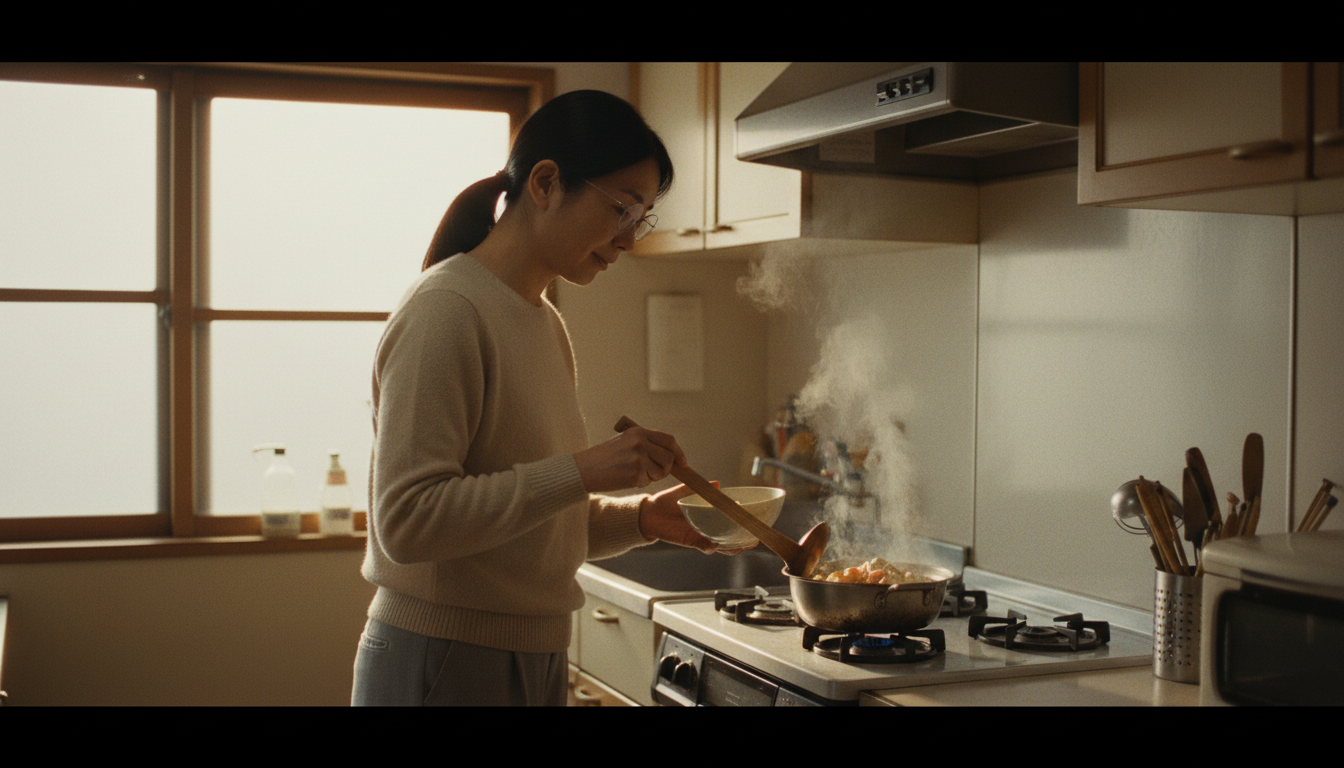
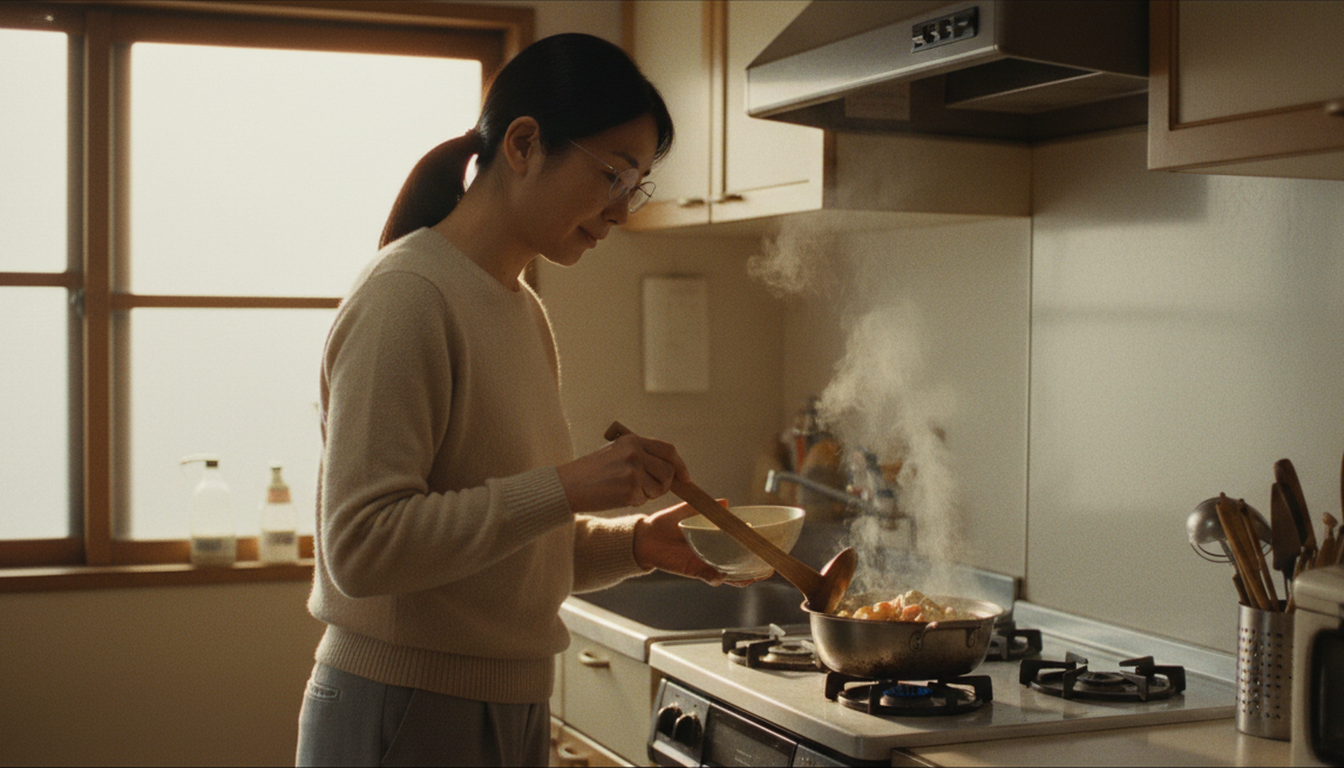
aihaha-ja PHASE 4 시범 Kill Gate: 9컷 재생성 스펙 r1, 안경 이동·구도 앞배치·한 손 규칙 생성기 반영, 제21장 15
Claude-Session: https://claude.ai/code/session_012dfS4ETyT6kRCQca3NPWtx

diff --git a/scripts/build_aihaha_keyframes.py b/scripts/build_aihaha_keyframes.py
@@ -40,7 +40,8 @@ def describe(path, i):
     if b.startswith("sweat-standard"):
         return f"Reference image {i} is the APPROVED SWEAT LOOK of {PEOPLE[k]}: reproduce exactly this face and this subtle natural sweat; ignore its background."
     if k and b.endswith("-back.png"):
-        return f"Reference image {i} is the BACK VIEW of {PEOPLE[k]}: this person appears seen from behind exactly like this (hair, build); never show this person's face."
+        bare = "" if k in GLASSES else " This person's ears and temples are bare — no eyewear arms."
+        return f"Reference image {i} is the BACK VIEW of {PEOPLE[k]}: this person appears seen from behind exactly like this (hair, build); never show this person's face.{bare}"
     if k and any(w in b for w in ("mourning", "coat", "golf", "blouse", "hoodie")):
         return f"Reference image {i} is the WARDROBE reference of {PEOPLE[k]}: copy this exact outfit and the same face; ignore its white background and panel layout."
     if k:
@@ -85,7 +86,40 @@ EMO_OVERRIDE = {
     "S08k": "The framed portrait on the small altar shows a plain soft pale surface inside the frame (the photograph is composited later).",
     "S11j": "Exactly three people slumped on the sofa seen from directly above; nobody else.",
     "S13d": "Yukiko alone, close-up, the morning window light from the left exactly like the approved tear reference.",
+    # r1 (시범 #1046 Kill Gate) — 손 개수·시선·두 사람 손 구분·구도
+    "H0b": ("ONE HAND ONLY: her LEFT hand alone holds the tablet by its lower edge, tilted toward her; her right hand is out of frame, resting in her lap. "
+            "Five separate fingers, the watch on that left wrist."),
+    "H2b": ("ONE HAND ONLY: her LEFT hand alone lowers the tablet, tilted about 30 degrees above the low table with its glowing screen facing DOWN toward the wood, "
+            "so the screen itself is hidden — only its plain black back and the cold light spilling onto the table are seen; her right hand is out of frame."),
+    "H1": ("EYELINE LOCKED: her eyes look DOWN and toward the left edge of the frame at the tablet held below the frame at chest height; the lens sees her face from "
+           "about 40 degrees to her right; her eyelids lowered toward the screen, the pupils never aimed at the lens."),
+    "S01h": ("TWO DIFFERENT PEOPLE'S HANDS: from the LEFT, the mother's thin wrinkled 74-year-old hand in a lavender cardigan sleeve with the small brown-leather watch "
+             "on her wrist; from the RIGHT, Yukiko's smooth 46-year-old hand in a beige knit sleeve, lying palm-down on the blanket underneath; the old hand rests on "
+             "top of the younger hand. Exactly two hands, one from each side."),
+    "S01b": ("ONE HAND ONLY: her RIGHT hand alone, pinching one small white pill between thumb and index finger just above an open compartment of the plain "
+             "white weekly pill case on the low table; her left hand is out of frame. Five separate fingers."),
+    "S01f": "PEOPLE LOCKED: exactly two people — the mother's blurred white-haired head and lavender shoulder at the near left edge, her thin hand pointing at the window; Yukiko beyond by the window.",
 }
+FRAMING_FIRST = {
+    "S01f": "FRAMING LOCKED FIRST: MEDIUM SHOT from the waist up — Yukiko stands close to the window, her face at least one quarter of the frame height; NOT a full-body shot.",
+}
+GLASSES = {"yukiko": "thin silver wire-rim ROUND glasses", "shota": "thick black rectangular glasses"}
+NAME = {"yukiko": "Yukiko", "sawako": "the mother (Sawako)", "tsuyoshi": "the uncle", "yoriko": "the aunt", "shota": "the cousin", "miyashita": "the detective",
+        "ai-haha": "the AI mother"}
+
+
+def eyewear_lock(keys):
+    """안경 이동 방지(시범 #1046: 유키코 정면 셀의 안경이 어깨 너머 어머니로 옮겨 감 2/3컷, 유키코는 안경 소실)."""
+    keys = [k for k in dict.fromkeys(keys) if k in NAME]
+    if len(keys) < 2:
+        return None
+    wear = [f"{NAME[k]} wears {GLASSES[k]}" for k in keys if k in GLASSES]
+    bare = [NAME[k] for k in keys if k not in GLASSES]
+    if not wear or not bare:
+        return None
+    return ("EYEWEAR LOCKED: " + "; ".join(wear) + " — always, including in this frame; " + " and ".join(bare)
+            + " ha" + ("s" if len(bare) == 1 else "ve") + " bare uncovered eyes and bare temples. The glasses belong only to "
+            + " and ".join(NAME[k] for k in keys if k in GLASSES) + ".")
 SEAT = "SEATED/FURNITURE LOCKED: seated people sit on zabuton or chairs pulled in to the table; no furniture passes through any body."
 
 
@@ -96,17 +130,34 @@ def build(sc):
     if len(refs) > MAX_REFS:
         refs = refs[:MAX_REFS]
     assert len(refs) <= MAX_REFS
+    kp = sc["keyframe_prompt"]
+    if sc["id"] == "H0a":
+        # 극 중 AI 영상만 렌즈 정면(제21장 4) — PHASE 3 공통 립싱크 문장(30~40° 시선)과 충돌하므로 제거, 장소 판을 첫 참조로
+        kp = kp.replace("Single speaker at 30 to 40 degrees from the camera axis, eyes toward the other person off-screen, NOT looking at the camera, "
+                        "the face at least one third of the frame height, mouth closed. ", "")
+        refs = [r for r in refs if not who_of(os.path.basename(r))] + [r for r in refs if who_of(os.path.basename(r))]
     parts = ["Create ONE single photorealistic cinematic film still in 16:9 widescreen — one frame only, NOT a grid, no panels, no borders, no captions."]
-    parts += [describe(p, i + 1) for i, p in enumerate(refs)]
     if sc["kind"] == "d" and sc["id"] != "H0a":
         parts.append("FRAMING LOCKED FIRST: chest-up MEDIUM CLOSE-UP, the speaker's face at least ONE THIRD of the frame height; NOT a wide shot, NO full body.")
+    if sc["id"] in FRAMING_FIRST:
+        parts.append(FRAMING_FIRST[sc["id"]])
+    if sc["id"] == "H0a":
+        parts.append("Reference image 1 is the BASE PLATE of the room: keep the same textured beige wall, the same dark-wood window frame and EXACTLY the same "
+                     "finished pale tower with the same tiled-roof houses and green trees below it outside; the woman sits in the brown armchair in front of that window. "
+                     "Nothing else in the room: no tablet, no devices, no frames.")
+        parts += [describe(p, i + 1) for i, p in enumerate(refs) if i > 0]
+    else:
+        parts += [describe(p, i + 1) for i, p in enumerate(refs)]
+    ew = eyewear_lock([who_of(os.path.basename(r)) for r in refs])
+    if ew:
+        parts.append(ew)
     if sc["kind"] in ("face", "d", "pstill") and sc["id"] != "H0a":
         parts.append(GAZE_DEFAULT)
     if "phone" not in (sc["subject"] + " " + (sc.get("motion") or "")).lower():
         parts.append("Nobody holds a phone.")
     if sc["id"] in EMO_OVERRIDE:
         parts.append(EMO_OVERRIDE[sc["id"]])
-    parts.append(sc["keyframe_prompt"])
+    parts.append(kp)
     parts.append(LOC_NOTE)
     if sc.get("lighting") in LIGHT_NOTE:
         parts.append(LIGHT_NOTE[sc["lighting"]])

diff --git a/CLAUDE.md b/CLAUDE.md
@@ -633,6 +633,7 @@ deformed eyes, extra fingers.
 12. **큰 상태 변화 편집은 한 번에 되지 않는다(2026-11-03 2차 실측)**: 비계 창 셀에 「비계·녹색 그물 전부 제거」를 한 번에 지시하자 낮은 타워만 완공되고 아래 그물·펜스가 남았고, 밤은 비계가 그대로 남았다. 상태 변화는 **작은 편집을 단계별로**(타워 완공 → 아래 그물 제거 → 밤 전환) 나누고, 단계마다 결과를 원본 셀로 넘긴다. 이야기의 증거가 되는 상태(비계 없음)는 합격 전까지 다음 단계로 넘기지 않는다.
 13. **병행 작품과 충돌 0 — 위험하면 멈췄다가 안전할 때(2026-11-03 고니감독님 지시 「충돌하면 안 돼, 위험하면 늦어도 괜찮으니 잠시 멈췄다가 안전해질 때 진행」)**: 다른 세션 작품(이번: 『ブラックカード』 `claude/next-bidan-1101`)과 같은 저장소·fal 잔액·Actions를 함께 쓰므로, 고니감독님께 실행을 요청하기 **직전마다** `python3 scripts/safe_to_run.py <우리 브랜치> <image|lipsync>`로 진행 중 실행을 검사한다 — 다른 브랜치나 우리 브랜치에 queued·in_progress 실행이 하나라도 있으면 「대기」로 보고하고 끝날 때까지 실행을 요청하지 않는다(립싱크 동시 실행 취소 실증 제19장 18, 실행 중 푸시 거절 제18장 9⑨). 실증 장 번호·공유 문서(대장·제작비용·CLAUDE.md)는 작품별 브랜치에서 각자 고치지 않고 정본 통합 때 한 번에 합친다.
 14. **로컬 그래픽·자막 글꼴은 착수 때 설치(2026-11-03)**: 컨테이너에 Noto Sans/Serif CJK·IPA 명조가 없어 서류가 고딕으로 대체됐다 → 작업 시작 시 `apt-get update && apt-get install -y fonts-noto-cjk fonts-ipafont-mincho` 후 `fc-match "Noto Sans CJK JP:bold"` 확인(제19장 22 재확인). 서류 그래픽은 `scripts/aihaha_graphics.py`(대본 1:1 — 貸主·借主·金額·収入印紙 공란·申述人 공란·民法915条·요일 검산).
+15. **키프레임 시범 Kill Gate 실측(2026-11-03, #1046 16장 중 9컷 재생성)**: ① **안경이 사람을 옮겨 다닌다** — 안경 쓴 주인공 정면 셀과 안경 없는 인물 뒷모습 셀을 함께 참조하자 어깨 너머 3컷 중 2컷에서 안경이 앞 인물(어머니)로 옮겨 가고 1컷은 주인공 안경이 사라졌다 → 두 사람 이상 컷은 생성기가 「EYEWEAR LOCKED: 안경은 ○○만, △△는 맨눈·맨 관자놀이」를 자동으로 넣고, 안경 없는 인물의 뒷모습 설명에 「귀·관자놀이 맨살」을 붙인다(`build_aihaha_keyframes.py` `eyewear_lock`). ② **구도 문장이 참조 설명 뒤에 있으면 원경으로 나온다**(립싱크 S01g·어깨 너머 S01f 전신) → FRAMING 문장을 첫 문장 바로 뒤, 참조 설명보다 앞에(제19장 10⑥ 재확인). ③ **태블릿·약은 두 손으로 잡는다**(H0b·H2b·S01b) — 「exactly ONE hand」만으로는 안 막힌다 → 「왼손만 + 오른손은 화면 밖 무릎 위」처럼 다른 손의 위치를 긍정문으로 정한다. ④ **두 사람 손 인서트는 둘 다 노인 손이 된다**(S01h) → 손마다 방향(왼쪽·오른쪽)·나이·소매를 따로 적는다. ⑤ **순간 동작(엎어 놓기)은 결과와 반대로 나온다**(화면이 위) → 「30° 기울여 화면이 아래를 향함, 빛만 테이블에 번짐」처럼 보이는 상태로(제15장 16). ⑥ **극 중 AI 영상 컷(H0a)은 공통 립싱크 시선 문장(30~40°)과 충돌** → 그 문장을 지우고, 창밖이 이야기 증거인 컷은 장소 판을 **첫 참조(BASE PLATE)**로 두고 「같은 벽·창틀·같은 완공 타워·같은 지붕들」을 적는다(다른 유리 고층 건물로 바뀐 실증). ⑦ 레터박스 자동 크롭은 어두운 옷·밤 화면에서 오탐(H0b 오른쪽 검은 상복, H2b)이 나므로 크롭 결과를 눈으로 확인하고 오탐은 `_v1`에서 되돌린다. 눈물 기준 컷 참조(S13d)는 1회 합격 — 기준 컷 방식 유지.
 
 ---
 

diff --git a/docs/제작규격-보강-aihaha실증.md b/docs/제작규격-보강-aihaha실증.md
@@ -30,3 +30,9 @@
 - 진짜 어머니 L03c = 2차 r3(억양 범위 10.7반음) 채택, L56 = 2차 r2 [tired, tender → apologetic, warm](고니감독님 청취 선택 5번 「미세한 떨림과 호흡의 잔향」 — 사과하는 조용한 대사라 억양 폭 지표 3.5반음이어도 청취가 우선).
 - 눈물 확정 기준(고니감독님 승인): 由紀子 눈물 2번 — 한쪽 눈·한 줄기·볼 위 1/3·가장자리만 반사·무광 피부·다문 입·렌즈 밖 시선. `assets/portraits/aihaha-ref/`.
 - 3차: 단계 편집(타워 완공 결과 → 아래 그물·펜스만 제거)으로 완공 창 4/4 합격(제21장 12 실증). 진행자 참조 `ashita-host-1`이 작업 브랜치에 없어 3안 미생성 — 생성 스펙의 refs 파일 존재를 실행 전에 검사할 것.
+
+
+## PHASE 4 키프레임 시범 Kill Gate (2026-11-03, #1046)
+
+- 16장 중 합격 7 + 무료 크롭 1(S01c 레터박스) · 재생성 8+1(H0a·H0b·H1·H2b·S01b·S01d·S01f·S01g·S01h) → r1 9컷×2장 약 0.72달러. 검수판 `productions/aihaha-ja/PHASE4_시범검수판.jpg`.
+- **키프레임 시범 Kill Gate 실측(2026-11-03, #1046 16장 중 9컷 재생성)**: ① **안경이 사람을 옮겨 다닌다** — 안경 쓴 주인공 정면 셀과 안경 없는 인물 뒷모습 셀을 함께 참조하자 어깨 너머 3컷 중 2컷에서 안경이 앞 인물(어머니)로 옮겨 가고 1컷은 주인공 안경이 사라졌다 → 두 사람 이상 컷은 생성기가 「EYEWEAR LOCKED: 안경은 ○○만, △△는 맨눈·맨 관자놀이」를 자동으로 넣고, 안경 없는 인물의 뒷모습 설명에 「귀·관자놀이 맨살」을 붙인다(`build_aihaha_keyframes.py` `eyewear_lock`). ② **구도 문장이 참조 설명 뒤에 있으면 원경으로 나온다**(립싱크 S01g·어깨 너머 S01f 전신) → FRAMING 문장을 첫 문장 바로 뒤, 참조 설명보다 앞에(제19장 10⑥ 재확인). ③ **태블릿·약은 두 손으로 잡는다**(H0b·H2b·S01b) — 「exactly ONE hand」만으로는 안 막힌다 → 「왼손만 + 오른손은 화면 밖 무릎 위」처럼 다른 손의 위치를 긍정문으로 정한다. ④ **두 사람 손 인서트는 둘 다 노인 손이 된다**(S01h) → 손마다 방향(왼쪽·오른쪽)·나이·소매를 따로 적는다. ⑤ **순간 동작(엎어 놓기)은 결과와 반대로 나온다**(화면이 위) → 「30° 기울여 화면이 아래를 향함, 빛만 테이블에 번짐」처럼 보이는 상태로(제15장 16). ⑥ **극 중 AI 영상 컷(H0a)은 공통 립싱크 시선 문장(30~40°)과 충돌** → 그 문장을 지우고, 창밖이 이야기 증거인 컷은 장소 판을 **첫 참조(BASE PLATE)**로 두고 「같은 벽·창틀·같은 완공 타워·같은 지붕들」을 적는다(다른 유리 고층 건물로 바뀐 실증). ⑦ 레터박스 자동 크롭은 어두운 옷·밤 화면에서 오탐(H0b 오른쪽 검은 상복, H2b)이 나므로 크롭 결과를 눈으로 확인하고 오탐은 `_v1`에서 되돌린다. 눈물 기준 컷 참조(S13d)는 1회 합격 — 기준 컷 방식 유지.

diff --git a/docs/시리즈-제작비용.md b/docs/시리즈-제작비용.md
@@ -101,6 +101,8 @@ EP3-JA 실측: 완료 전 잔액 10.51 → 중간 충전 → 완료 후 30.18(20
 | PHASE 2 시트 1차 #1036 | PHASE 2 | 13장(seedream t2i) | 약 0.5달러 | 약 0.4달러(13×0.03) | 합격 6·수정 4·재생성 3 |
 | PHASE 2 시트 2차 `aihaha-cast-2` #1037 | PHASE 2 | 18장(편집 15·t2i 3) | 약 0.8달러 | 잔액 확인 대기 | 제15장 10 재생성 여유 |
 | PHASE 2 시트 3차 `aihaha-cast-3` | PHASE 2 | 13장(편집 10·진행자 3) | 약 0.6달러 | — | 완공 창 재편집·안경·코트·후드·진행자 스타일 3안 |
+| PHASE 4 키프레임 시범 `aihaha-kf-p` #1046 | PHASE 4 | 16장(nano-banana 편집) | 약 0.64달러 | — | 합격 7·크롭 1·재생성 9(제21장 15) |
+| PHASE 4 키프레임 재생성 `aihaha-kf-r1` | PHASE 4 | 9컷×2장=18장 | 약 0.72달러 | — | 재생성분(실패) |
 | (기준) fal 잔액 | 2026-11-03 2차 시트 실행 전 | — | — | **104.17달러**(대시보드, 일평균 17.57달러 — 다른 작품 포함) | 남은 추정 약 84달러 → 여유 약 20달러, PHASE 5 전 충전 권장 |
 | 키프레임·시트·i2v·립싱크(fal) | PHASE 2~5 | 『引きこもり』 168컷 기준 | 약 73달러 + 키프레임 재생성 ×1.35 여유 → **약 80달러** | — | 직전 작품 실측 72.5달러(6절) |
 | 아웃트로 진행자(Typecast Yui Sato + 립싱크) | 아웃트로 | 5줄·3룩 | 약 3.5달러 | — | 제18장 9 ⑧ |
